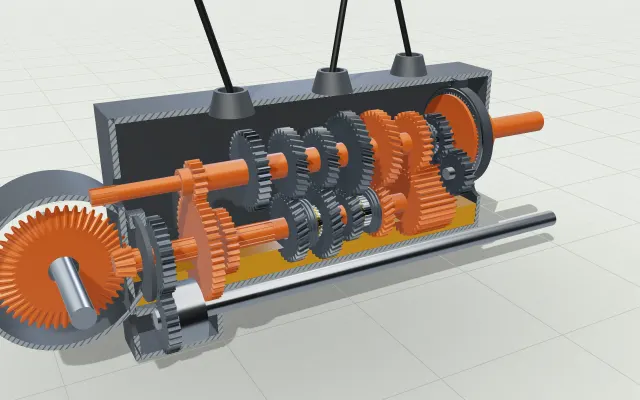
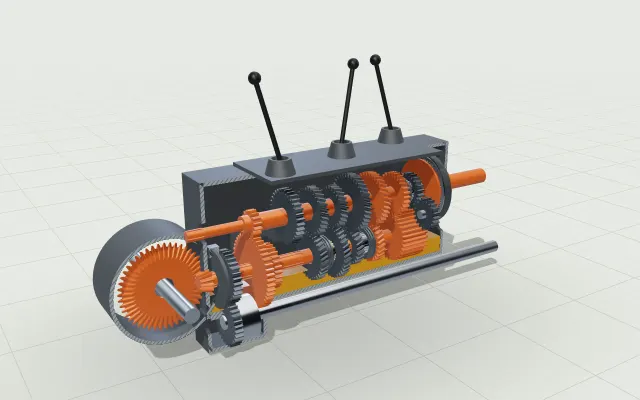
16F/12R gearbox rig: levers stand on a shift cover, and the opening view shows them whole

diff --git a/web/src/modules/powertrain/mf-16-speed/Scene3D.tsx b/web/src/modules/powertrain/mf-16-speed/Scene3D.tsx
@@ -346,6 +346,8 @@ export function MF16Scene3D() {
         </Part>
 
         <Part id="levers" name="Gear, range and shuttle levers" role="moving" material="paintBlack" info={INFO.levers} cites={C.fig} explode={[0, 0.15, 0]}>
+          {/* the levers stand on the shift cover, which stays whole when the casing is cut open */}
+          <PartMesh geometry={g.shiftCover} material="castIron" />
           {(
             [
               [R.gearLever, 0.42, 0, 'plastic'],
@@ -353,7 +355,7 @@ export function MF16Scene3D() {
               [R.shuttleLever, 0.17, -0.07, 'paintYellow'],
             ] as const
           ).map(([ref, z, x], i) => (
-            <group key={i} position={[x, 0.15, z]}>
+            <group key={i} position={[x, 0.162, z]}>
               <PartMesh geometry={g.tower} material="castIron" />
               <group ref={ref} position={[0, 0.04, 0]}>
                 <PartMesh geometry={g.lever} />

diff --git a/web/src/modules/powertrain/mf-16-speed/geometry.ts b/web/src/modules/powertrain/mf-16-speed/geometry.ts
@@ -104,6 +104,8 @@ export function buildStatic() {
       const l = gearLever({ length: 0.24, knobR: 0.018 })
       return merge(l.stick, l.knob)
     })(),
+    // the shift cover: the cast lid the lever towers stand on (left whole when the casing is cut open)
+    shiftCover: boxFrom([-0.115, 0.15, 0.11], [0.125, 0.162, 0.74]),
     tower: xform(axial([[0.025, 0], [0.045, 0], [0.032, 0.045], [0.025, 0.045]], 28), mat4.rx(-PI / 2)),
     /** for tests */
     rangeL: RANGE_L,

diff --git a/web/src/modules/powertrain/mf-16-speed/index.tsx b/web/src/modules/powertrain/mf-16-speed/index.tsx
@@ -7,7 +7,7 @@ import { MF16Panel } from './Panel'
 import { MF16Scene3D } from './Scene3D'
 
 type V3 = [number, number, number]
-const home = { position: [1.3, 0.5, 1.15] as V3, target: [0, -0.1, 0.45] as V3 }
+const home = { position: [1.75, 0.72, 1.62] as V3, target: [0, 0.03, 0.5] as V3 }
 const at = (z: number, y = -0.07, d = 0.55) => ({ position: [d, 0.18, z + d * 0.8] as V3, target: [0, y, z] as V3 })
 
 const scene: SceneDef = {
